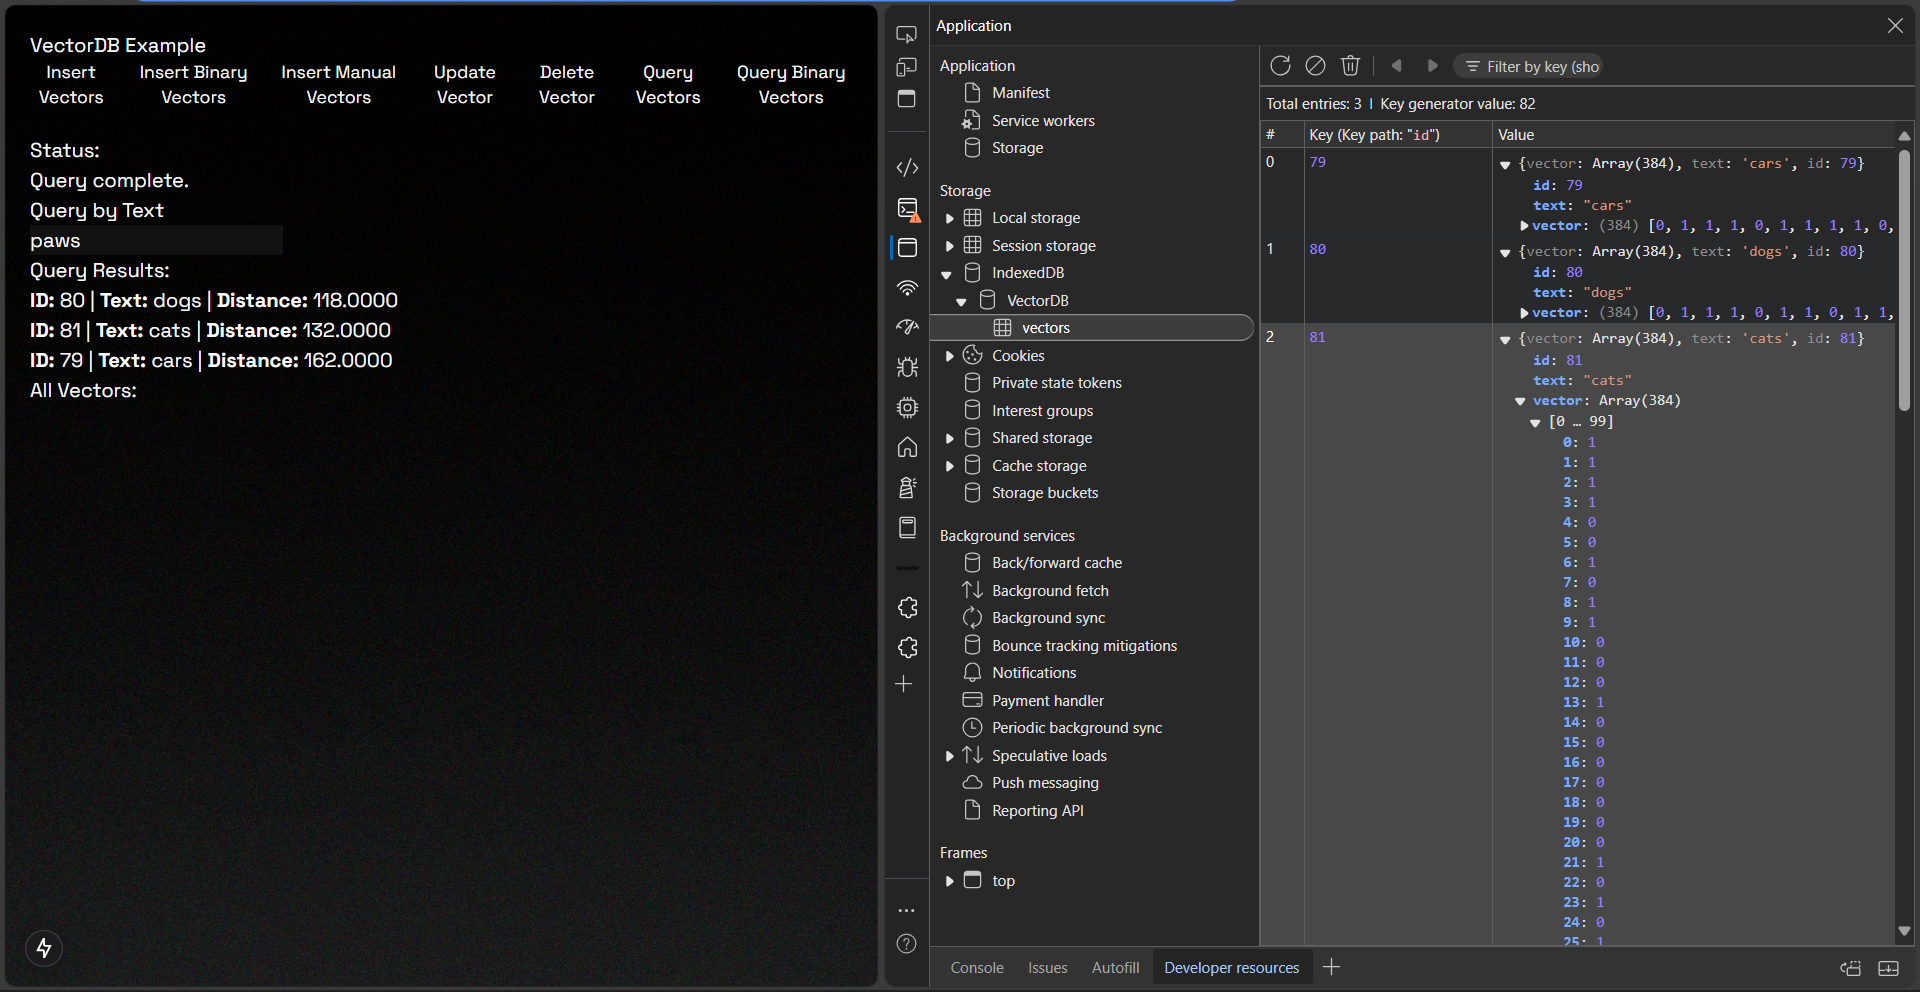
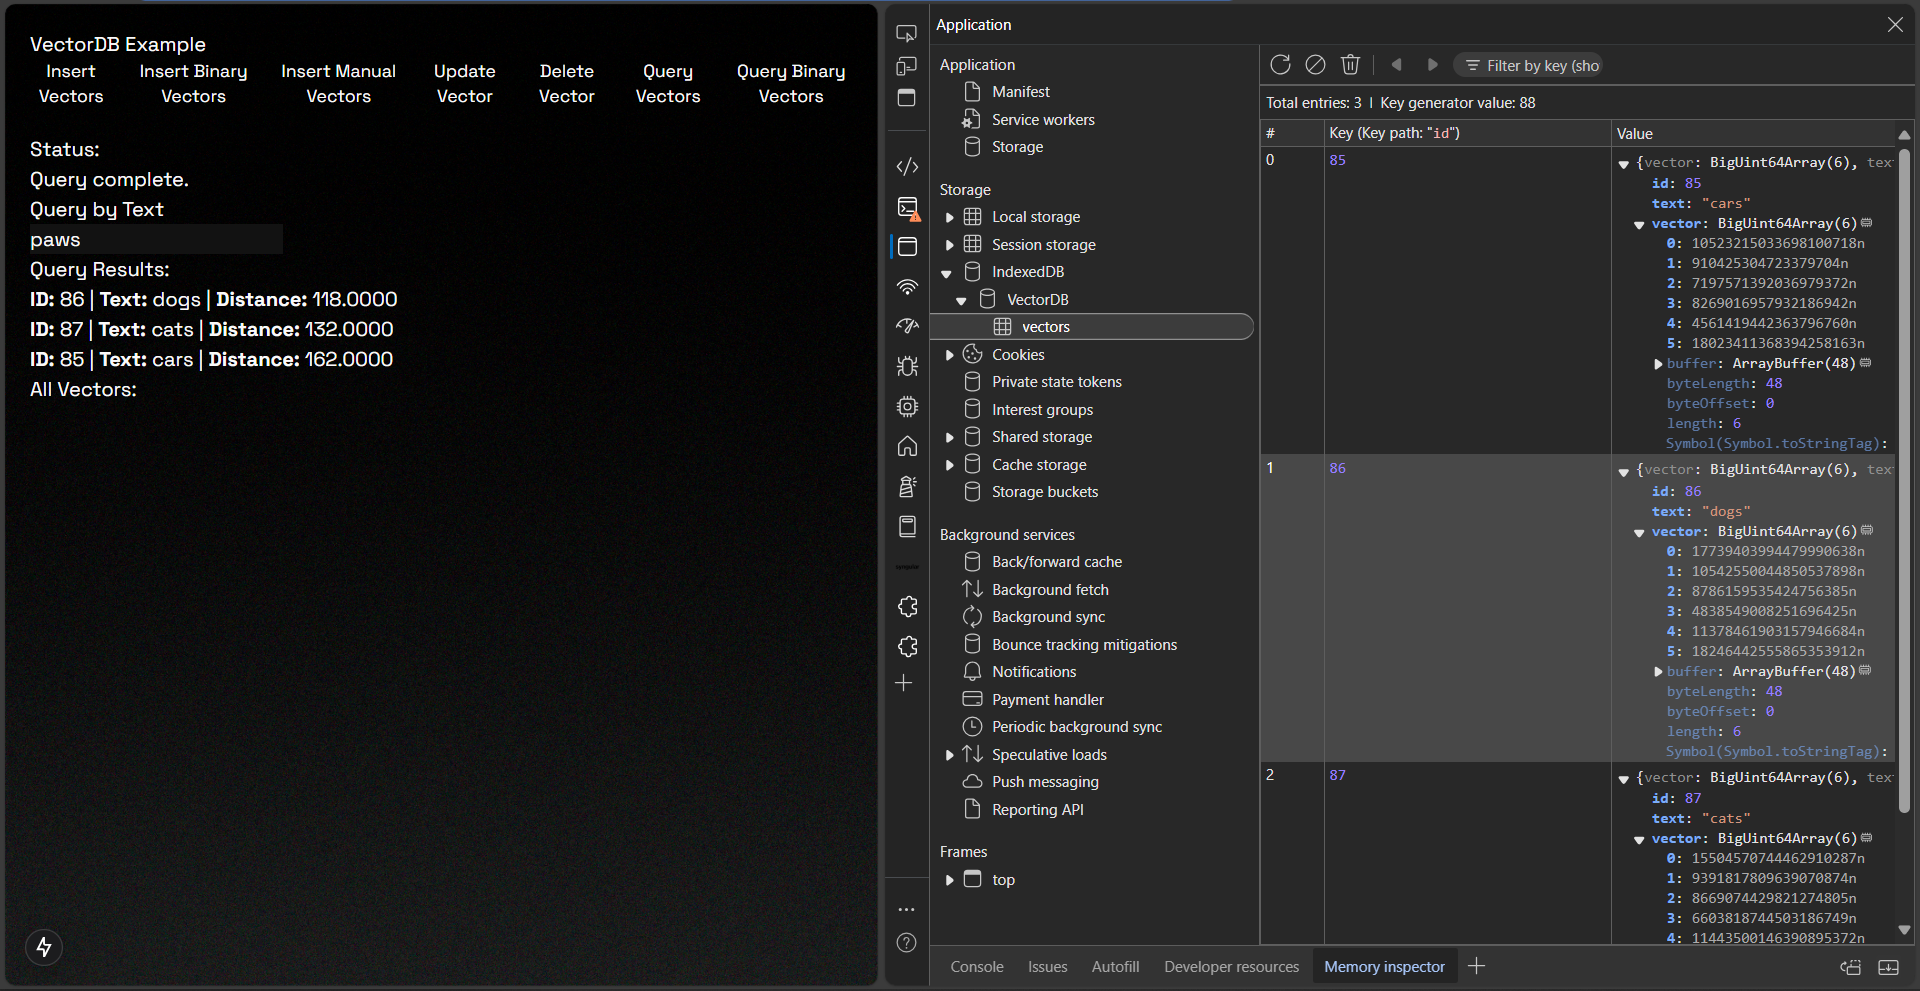
EntityDB

diff --git a/src/index.js b/src/index.js
@@ -54,10 +54,16 @@ const hammingDistance = (vectorA, vectorB) => {
   if (vectorA.length !== vectorB.length) {
     throw new Error("Vectors must be of the same length");
   }
-  return vectorA.reduce(
-    (distance, bit, index) => distance + (bit !== vectorB[index] ? 1 : 0),
-    0
-  );
+  const length = vectorA.length;
+  const bitsA = new BigUint64Array(vectorA.buffer);
+  const bitsB = new BigUint64Array(vectorB.buffer);
+
+  let distance = 0n;
+  for (let i = 0; i < bitsA.length; i++) {
+    const xorResult = bitsA[i] ^ bitsB[i];
+    distance += BigInt(xorResult.toString(2).replace(/0/g, "").length); // Popcount equivalent
+  }
+  return Number(distance);
 };
 
 class EntityDB {
@@ -108,17 +114,28 @@ class EntityDB {
       if (data.text) {
         embedding = await getEmbeddingFromText(data.text, this.model);
       }
-      // Binarize the embedding
+
+      // Binarize the embedding and pack into BigUint64Array
       const binaryEmbedding = binarizeVector(embedding);
+      const packedEmbedding = new BigUint64Array(
+        new ArrayBuffer(Math.ceil(binaryEmbedding.length / 64) * 8)
+      );
+      for (let i = 0; i < binaryEmbedding.length; i++) {
+        const bitIndex = i % 64;
+        const arrayIndex = Math.floor(i / 64);
+        if (binaryEmbedding[i] === 1) {
+          packedEmbedding[arrayIndex] |= 1n << BigInt(bitIndex);
+        }
+      }
 
       const db = await this.dbPromise;
       const transaction = db.transaction("vectors", "readwrite");
       const store = transaction.objectStore("vectors");
-      const record = { vector: binaryEmbedding, ...data };
+      const record = { vector: packedEmbedding, ...data };
       const key = await store.add(record);
       return key;
     } catch (error) {
-      throw new Error(`Error inserting data: ${error}`);
+      throw new Error(`Error inserting binary data: ${error}`);
     }
   }
 
@@ -142,7 +159,7 @@ class EntityDB {
     const transaction = db.transaction("vectors", "readwrite");
     const store = transaction.objectStore("vectors");
     const vector = data[this.vectorPath];
-    const updatedData = { vector, ...data };
+    const updatedData = { ...data, [store.keyPath]: key, vector };
     await store.put(updatedData);
   }
 
@@ -185,14 +202,26 @@ class EntityDB {
       const queryVector = await getEmbeddingFromText(queryText, this.model);
       const binaryQueryVector = binarizeVector(queryVector);
 
+      // Pack the query vector into BigUint64Array
+      const packedQueryVector = new BigUint64Array(
+        new ArrayBuffer(Math.ceil(binaryQueryVector.length / 64) * 8)
+      );
+      for (let i = 0; i < binaryQueryVector.length; i++) {
+        const bitIndex = i % 64;
+        const arrayIndex = Math.floor(i / 64);
+        if (binaryQueryVector[i] === 1) {
+          packedQueryVector[arrayIndex] |= 1n << BigInt(bitIndex);
+        }
+      }
+
       const db = await this.dbPromise;
       const transaction = db.transaction("vectors", "readonly");
       const store = transaction.objectStore("vectors");
       const vectors = await store.getAll();
 
-      // Calculate Hamming distance with binary vectors
+      // Calculate Hamming distance
       const distances = vectors.map((entry) => {
-        const distance = hammingDistance(binaryQueryVector, entry.vector);
+        const distance = hammingDistance(packedQueryVector, entry.vector);
         return { ...entry, distance };
       });
 

diff --git a/README.MD b/README.MD
@@ -62,15 +62,6 @@ await db.insert({
 });
 ```
 
-### Querying (Cosine Similarity)
-
-You can query the database by providing a text, and EntityDB will return the most similar results based on cosine similarity.
-
-```js
-const results = await db.query("Find similar texts based on this query");
-console.log(results);
-```
-
 ### Inserting Manual Vectors
 
 If you already have precomputed vectors, you can insert them directly into the database.
@@ -82,12 +73,13 @@ await db.insertManualVectors({
 });
 ```
 
-### Deleting Data
+### Querying (Cosine Similarity)
 
-You can delete a vector by its key.
+You can query the database by providing a text, and EntityDB will return the most similar results based on cosine similarity.
 
 ```js
-await db.delete(1);
+const results = await db.query("Find similar texts based on this query");
+console.log(results);
 ```
 
 ### Querying Manual Vectors
@@ -98,6 +90,25 @@ If you have precomputed vectors and want to query them directly, use the queryMa
   const queryVector = [0.1, 0.2, 0.3, ...]; // your precomputed query vector
   const results = await db.queryManualVectors(queryVector);
   console.log(results);
+```
+
+### Updating a Vector in the Database
+
+If you need to update an existing vector in the database:
+
+```js
+await db.update("1234", {
+  vector: [0.4, 0.5, 0.6], // Updated vector data
+  metadata: { name: "Updated Item" }, // Additional updated data
+});
+```
+
+### Deleting Data
+
+You can delete a vector by its key.
+
+```js
+await db.delete(1);
 ```
 
 ---
@@ -111,6 +122,9 @@ Note that this simplification can reduce the quality of the results because some
 `[ -0.020319879055023193,  0.07605013996362686, 0.020568927749991417, ...]`
 after being binarized becomes:
 `[ 0, 1, 1, ...]`
+
+For better JS processing, the binary vectors are packed into 64-bit integers (e.g., using BigUint64Array).
+Each 64-bit integer represents 64 binary values, and we use the XOR operation on 64-bit integers to find mismatched bits and then count the 1s.
 
 ### Inserting Data and Generate Binarized Embeddings
 
